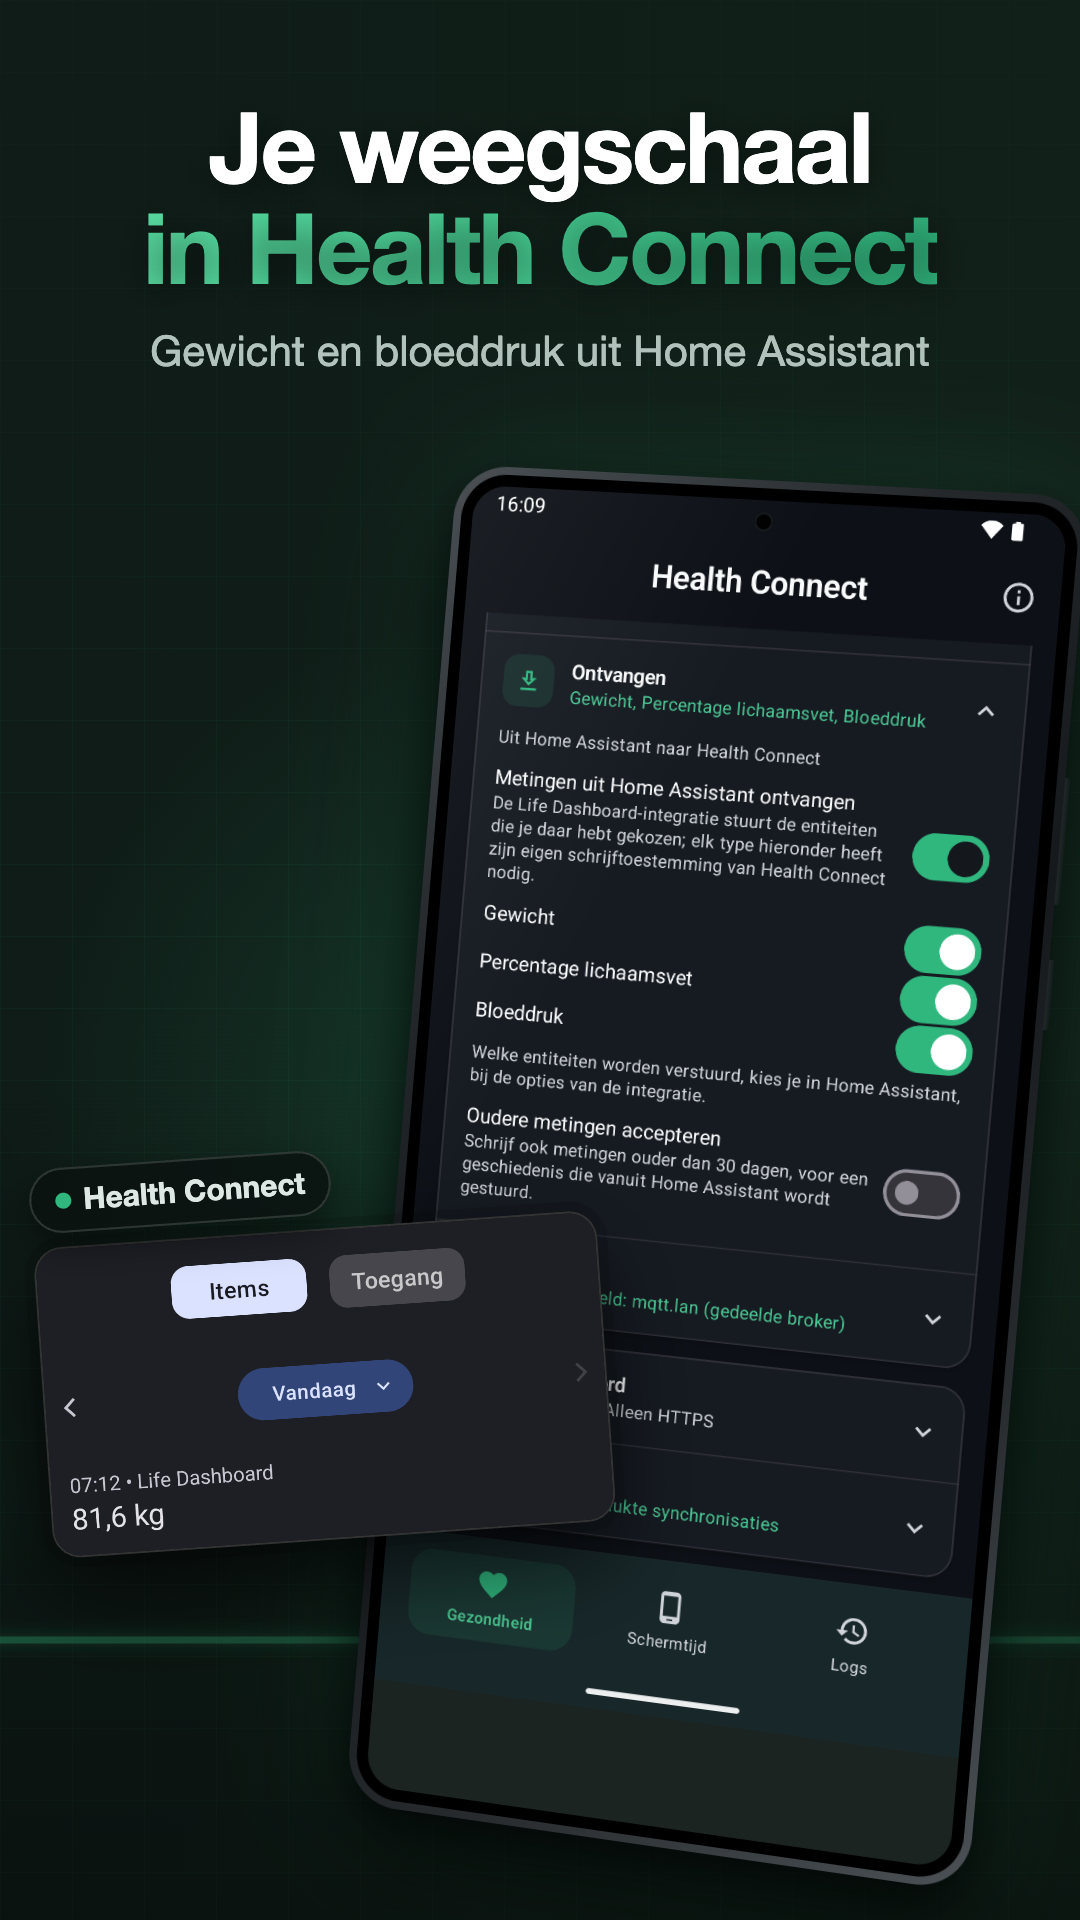
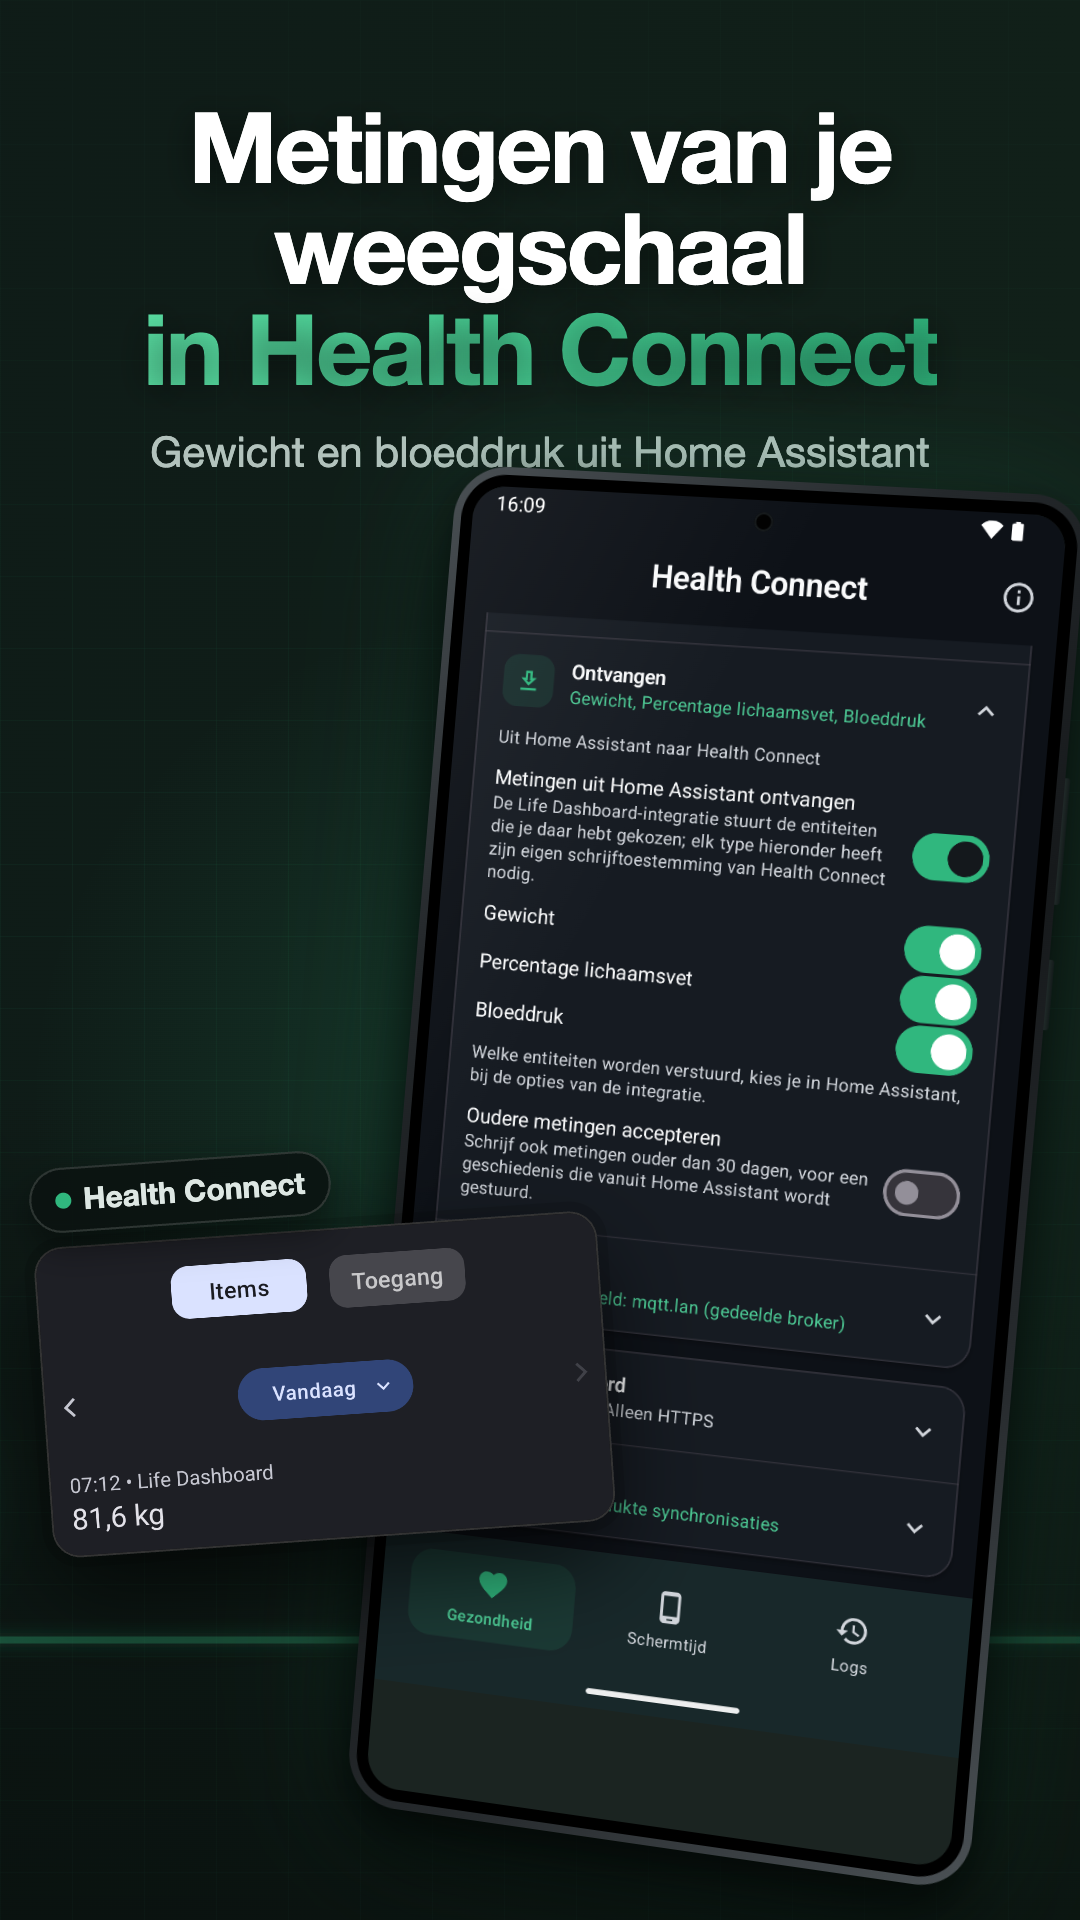
docs: The F-Droid description says backfill reaches all history, and Dutch panel 7 names the scale's readings

Changed region(s): [[0.1222, 0.0625, 0.8861, 0.25]]

diff --git a/docs/brand/play-panorama/panorama.html b/docs/brand/play-panorama/panorama.html
@@ -192,7 +192,7 @@ const TEXT = {
     cap6: [`Ook wijzigingen<br><em>en verwijderingen</em>`, `Ondertekende JSON voor n8n, Node-RED of je eigen scripts`],
     deleted: `Verwijderd, in de payload`,
     signed: `Ondertekend`,
-    cap7: [`Je weegschaal<br><em>in Health Connect</em>`, `Gewicht en bloeddruk uit Home Assistant`],
+    cap7: [`Metingen van je weegschaal<br><em>in Health Connect</em>`, `Gewicht en bloeddruk uit Home Assistant`],
   },
   de: {
     cap1: [`Von Health Connect<br><em>auf deinen Server</em>`, `Home Assistant, MQTT oder dein eigener Webhook`],
